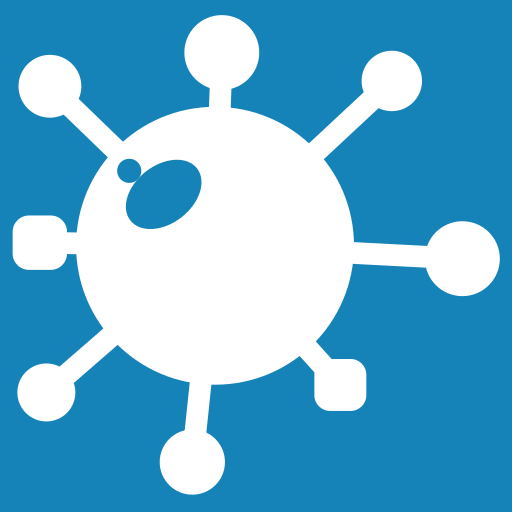
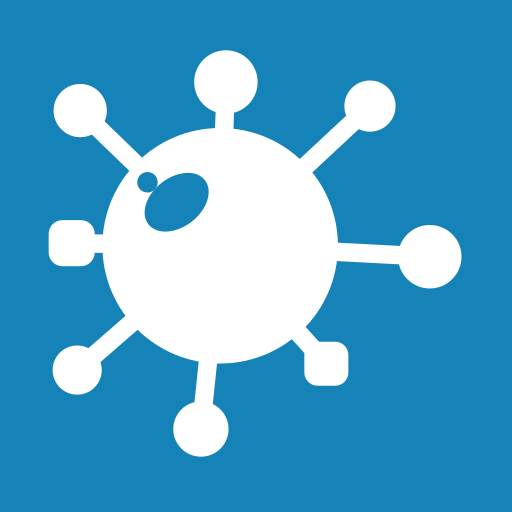
fix: 아이콘 심볼 축소 + 스플래시 복원 (start_url:/ + 1.5초 유지)

Changed region(s): [[0.0, 0.0312, 1.0, 0.9688], [0.0312, 0.0938, 0.2188, 0.2812], [0.0312, 0.6562, 0.2188, 0.8438]]

diff --git a/src/screens/A1Splash.jsx b/src/screens/A1Splash.jsx
@@ -9,7 +9,7 @@ export default function A1Splash() {
   const navigate = useNavigate()
 
   useEffect(() => {
-    const t = setTimeout(() => navigate('/a2'), 2000)
+    const t = setTimeout(() => navigate('/a2'), 1500)
     return () => clearTimeout(t)
   }, [navigate])
 